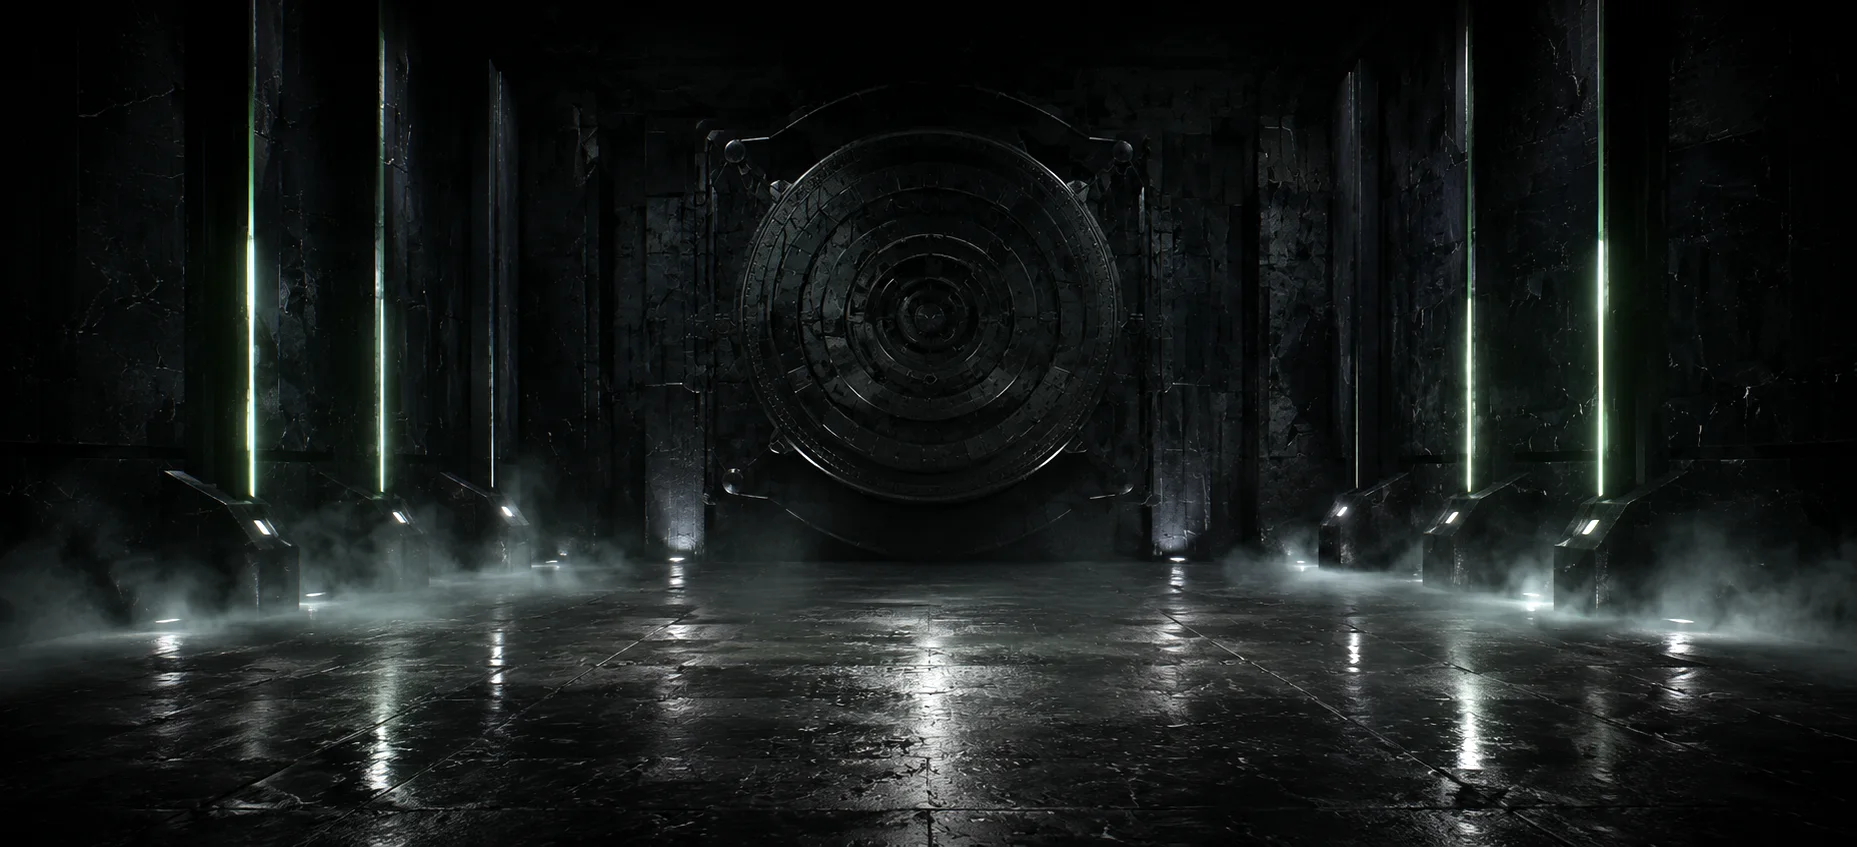
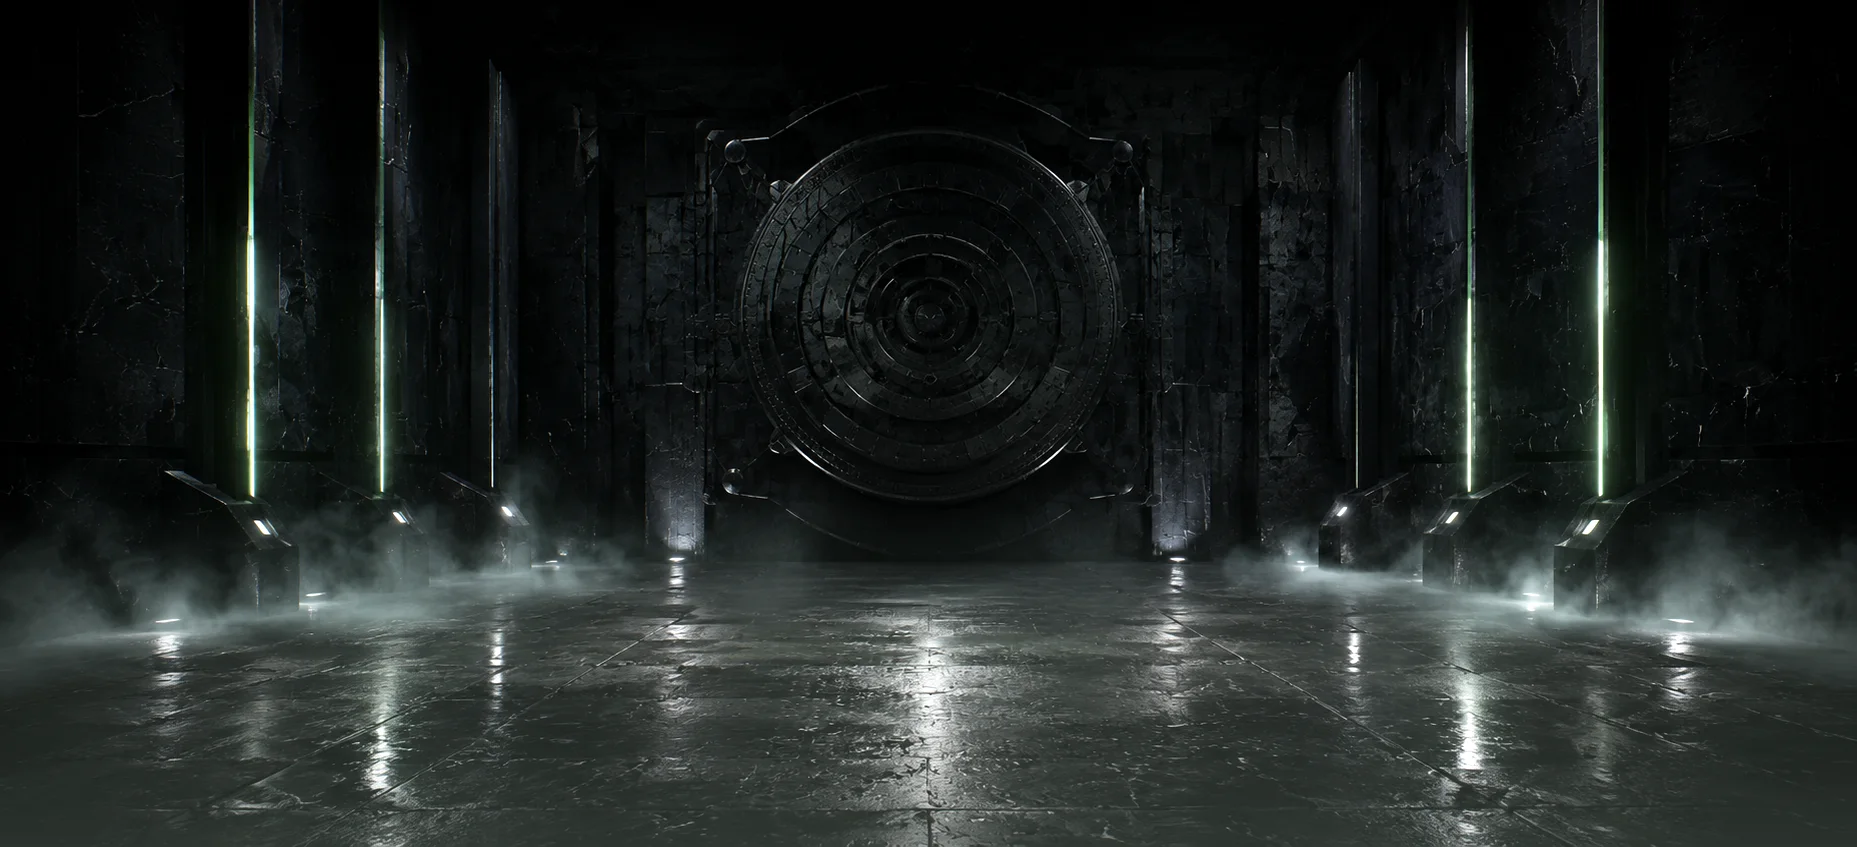
Make the render itself the environment: camera-locked backplate
The chamber render now fills the frame in full — wall, mist and its own
wet-stone floor — instead of being cropped to a wall slab. It is placed as a
backplate in camera space each frame with cover-fit sizing, so it always
covers at any aspect without stretch or letterbox, and its measured floor
line is pinned to the scene's true horizon so world objects composite onto
the painted floor and stay aligned as the camera pitches.

Removes the 3D floor slab entirely (nothing can cut the plate) and grounds
the platforms with radial contact occlusion instead. Bake adds a graduated
shadow lift so the render's foreground keeps detail under the platforms.

Changed region(s): [[0.0, 0.7674, 1.0, 1.0]]

diff --git a/src/scene/Stage.tsx b/src/scene/Stage.tsx
@@ -1,133 +1,110 @@
 import { useMemo, useRef } from 'react';
-import { useFrame } from '@react-three/fiber';
-import { MeshReflectorMaterial, useTexture } from '@react-three/drei';
+import { useFrame, useThree } from '@react-three/fiber';
+import { useTexture } from '@react-three/drei';
 import {
   AdditiveBlending,
   BufferGeometry,
   ClampToEdgeWrapping,
   Float32BufferAttribute,
+  MathUtils,
+  Mesh,
   MirroredRepeatWrapping,
+  PerspectiveCamera,
   ShaderMaterial,
   SRGBColorSpace,
+  Vector3,
 } from 'three';
-import { DUST_VERT, DUST_FRAG, PLANE_VERT, CONTACT_FRAG } from './shaders';
-import { useStore } from '../state/store';
-import { DEBUG_FLAGS } from '../debugFlags';
+import { DUST_VERT, DUST_FRAG } from './shaders';
 
 const CHAMBER_URL = `${import.meta.env.BASE_URL}env/chamber.webp`;
 useTexture.preload(CHAMBER_URL);
 
-/** Plate geometry, derived from one measurement. */
 const CHAMBER_ASPECT = 1857 / 847;
-/** World width of one frame of the plate. */
-const FRAME_W = 20;
-const FRAME_H = FRAME_W / CHAMBER_ASPECT;
 /**
  * Where the chamber's back wall meets its floor, as a fraction down the
- * image (measured from the luminance ramp). Aligning this line to world y=0
- * makes the plate meet the real floor at an architectural corner — the
- * junction is geometry, not a blend, so there is nothing left to seam.
+ * image (measured from its luminance ramp). The backplate anchors this line
+ * to the scene's true horizon, so the painted floor and the 3D ground plane
+ * share one vanishing line — the platforms sit on the render's own floor.
  */
 const FLOOR_LINE = 0.6;
-const PLATE_Y = FRAME_H * (FLOOR_LINE - 0.5);
-const PLATE_Z = -8.5;
+/** Camera-space distance of the backplate. Inside the far plane (60). */
+const PLATE_DIST = 34;
+/** Oversize so horizon anchoring never exposes an edge. */
+const PLATE_OVERSCAN = 1.08;
 
 /**
- * The chamber: one baked plate for the back wall, the real reflective slab
- * for every bit of ground the visitor actually stands near. The plate's own
- * light strips streak down into the reflector, so the near floor continues
- * the far floor by reflection rather than by patching.
+ * The chamber is the render itself: a camera-locked backplate that always
+ * covers the frame (never cropped, never letterboxed), with its floor line
+ * pinned to the 3D horizon so world-space objects composite onto its floor.
+ * There is no 3D floor slab — nothing can cut the plate.
  */
 export function Stage() {
-  const tier = useStore((s) => s.tier);
-
   return (
     <>
-      <Floor tier={tier} />
-      <ContactShadow />
-      <Backdrop />
+      <Backplate />
       <Dust />
     </>
   );
 }
 
-/** Occlusion pooling in the wall/floor corner — sells it as one room. */
-function ContactShadow() {
-  const uniforms = useMemo(() => ({ uStrength: { value: 0.9 } }), []);
-  const depth = 5;
-  return (
-    <mesh rotation-x={-Math.PI / 2} position={[0, 0.006, PLATE_Z + depth / 2]}>
-      <planeGeometry args={[FRAME_W * 3, depth]} />
-      <shaderMaterial
-        vertexShader={PLANE_VERT}
-        fragmentShader={CONTACT_FRAG}
-        uniforms={uniforms}
-        transparent
-        depthWrite={false}
-      />
-    </mesh>
-  );
-}
-
-function Floor({ tier }: { tier: 'high' | 'mid' | 'low' }) {
-  // The reflector renders the whole scene into an offscreen FBO each frame —
-  // reserved for the high tier, at a resolution the blur makes equivalent.
-  // Known cost: drei's internal render targets are not disposed if the
-  // reflector unmounts on a tier downgrade (~8MB GPU, at most once per
-  // session) — accepted over reaching into drei internals.
-  if (tier !== 'high' || DEBUG_FLAGS.noReflect) {
-    return (
-      <mesh rotation-x={-Math.PI / 2} position-y={0}>
-        <planeGeometry args={[60, 60]} />
-        <meshStandardMaterial color="#101312" roughness={0.6} metalness={0.6} />
-      </mesh>
-    );
-  }
-  return (
-    <mesh rotation-x={-Math.PI / 2} position-y={0}>
-      <planeGeometry args={[60, 60]} />
-      {/* Wet stone: sharp enough to carry the plate's light strips as
-          streaks, so the near ground reads as the same floor. */}
-      <MeshReflectorMaterial
-        resolution={512}
-        blur={[160, 55]}
-        mixBlur={0.8}
-        mixStrength={3.3}
-        depthScale={0.6}
-        minDepthThreshold={0.3}
-        maxDepthThreshold={1.2}
-        roughness={0.55}
-        color="#1b201d"
-        metalness={0.5}
-        mirror={0.8}
-      />
-    </mesh>
-  );
-}
-
-function Backdrop() {
-  // Baked lighting, so an unlit material; scene fog recesses it and the
-  // reflector floor mirrors it.
+function Backplate() {
   const chamber = useTexture(CHAMBER_URL);
   chamber.colorSpace = SRGBColorSpace;
-  // Sideways: mirrored repeat, so the wall continues past the view edge on
-  // any aspect ratio with seamless joins and no stretch.
-  // Vertically: clamp — above the frame the plate's dark ceiling row extends
-  // upward (no mirrored door reappearing), below it the floor rows extend
-  // down where our slab occludes them anyway.
+  // Cover-fit crops rather than stretches; mirrored sideways so an extreme
+  // aspect extends the chamber instead of exposing an edge, clamped
+  // vertically so the ceiling/floor rows carry on.
   chamber.wrapS = MirroredRepeatWrapping;
   chamber.wrapT = ClampToEdgeWrapping;
-  chamber.repeat.set(3, 3);
-  chamber.offset.set(-1, -1);
   chamber.needsUpdate = true;
 
+  const mesh = useRef<Mesh>(null!);
+  const camera = useThree((s) => s.camera) as PerspectiveCamera;
+  const dir = useMemo(() => new Vector3(), []);
+  const offset = useMemo(() => new Vector3(), []);
+
+  // Placed in camera space every frame (rather than parented — R3F's default
+  // camera is not in the scene graph, so its children never render). The
+  // plate is a backplate, not scenery: it holds the frame wherever the dolly
+  // goes.
+  useFrame(({ size }) => {
+    const fovHalf = MathUtils.degToRad(camera.fov) / 2;
+    const viewH = 2 * PLATE_DIST * Math.tan(fovHalf);
+    const viewW = viewH * (size.width / Math.max(size.height, 1));
+
+    // Cover: fill the frame, preserve the render's aspect, crop the excess.
+    let w: number;
+    let h: number;
+    if (viewW / viewH > CHAMBER_ASPECT) {
+      w = viewW;
+      h = viewW / CHAMBER_ASPECT;
+    } else {
+      h = viewH;
+      w = viewH * CHAMBER_ASPECT;
+    }
+    w *= PLATE_OVERSCAN;
+    h *= PLATE_OVERSCAN;
+    mesh.current.scale.set(w, h, 1);
+
+    // Pin the render's floor line to the scene's true horizon. Everything
+    // standing on y=0 then meets the painted floor at the same vanishing
+    // line, and it tracks automatically as the camera pitches.
+    camera.getWorldDirection(dir);
+    const pitchDown = Math.asin(MathUtils.clamp(-dir.y, -1, 1));
+    const horizonY = Math.tan(pitchDown) * PLATE_DIST;
+    const y = horizonY - h * (0.5 - FLOOR_LINE);
+    // Never let the anchor pull an edge into frame.
+    const limit = (h - viewH) / 2;
+
+    mesh.current.quaternion.copy(camera.quaternion);
+    offset.set(0, MathUtils.clamp(y, -limit, limit), -PLATE_DIST).applyQuaternion(camera.quaternion);
+    mesh.current.position.copy(camera.position).add(offset);
+  });
+
   return (
-    // 3x the frame in each axis; the middle tile carries the original
-    // mapping, so the vault door stays centered behind the protocol core
-    // and FLOOR_LINE lands exactly on the real floor.
-    <mesh position={[0, PLATE_Y, PLATE_Z]}>
-      <planeGeometry args={[FRAME_W * 3, FRAME_H * 3]} />
-      <meshBasicMaterial map={chamber} fog color="#e8ece8" toneMapped />
+    <mesh ref={mesh} frustumCulled={false} renderOrder={-1000}>
+      <planeGeometry args={[1, 1]} />
+      {/* Unlit and unfogged: the render carries its own light and depth. */}
+      <meshBasicMaterial map={chamber} fog={false} depthWrite={false} depthTest={false} toneMapped />
     </mesh>
   );
 }

diff --git a/src/scene/Pedestal.tsx b/src/scene/Pedestal.tsx
@@ -2,7 +2,7 @@ import { useMemo, useRef } from 'react';
 import { useFrame } from '@react-three/fiber';
 import { useGLTF } from '@react-three/drei';
 import { AdditiveBlending, Mesh, MeshStandardMaterial, ShaderMaterial } from 'three';
-import { PLANE_VERT, RING_FRAG } from './shaders';
+import { PLANE_VERT, RING_FRAG, CONTACT_FRAG } from './shaders';
 import { lightProxy, fxProxy } from '../motion/proxies';
 import { CHAR_X } from '../config/cameraPoses';
 
@@ -46,6 +46,8 @@ export function Pedestal({ side }: { side: 'left' | 'right' }) {
     []
   );
 
+  const shadowUniforms = useMemo(() => ({ uStrength: { value: 0.72 } }), []);
+
   useFrame(({ clock }) => {
     const u = material.current.uniforms;
     u.uTime.value = clock.elapsedTime;
@@ -61,6 +63,19 @@ export function Pedestal({ side }: { side: 'left' | 'right' }) {
 
   return (
     <group position={[x, 0, 0]}>
+      {/* Occlusion pooling under the platform — without it the composite
+          reads as a sticker on the backplate rather than a thing standing
+          on its floor. Drawn first so the halo glows over it. */}
+      <mesh rotation-x={-Math.PI / 2} position-y={0.004} renderOrder={-2}>
+        <planeGeometry args={[4.2, 4.2]} />
+        <shaderMaterial
+          vertexShader={PLANE_VERT}
+          fragmentShader={CONTACT_FRAG}
+          uniforms={shadowUniforms}
+          transparent
+          depthWrite={false}
+        />
+      </mesh>
       <primitive object={platform} />
       {/* State-glow halo on the floor, just outside the platform edge. */}
       <mesh rotation-x={-Math.PI / 2} position-y={0.02}>

diff --git a/src/scene/shaders.ts b/src/scene/shaders.ts
@@ -33,17 +33,17 @@ export const RING_FRAG = /* glsl */ `
 `;
 
 /**
- * Wall-base contact shadow. Every real wall/floor corner has ambient
- * occlusion pooling in it; without one the junction reads as two pasted
- * layers. v=1 is the far edge (at the wall).
+ * Soft radial contact shadow — grounds a platform onto the backplate's
+ * painted floor. Without it, objects composited over a matte painting read
+ * as stickers.
  */
 export const CONTACT_FRAG = /* glsl */ `
   varying vec2 vUv;
   uniform float uStrength;
   void main() {
-    float a = pow(clamp(vUv.y, 0.0, 1.0), 2.2) * uStrength;
-    // Fade out at the left/right extremes so the strip never shows an edge.
-    a *= smoothstep(0.0, 0.06, vUv.x) * (1.0 - smoothstep(0.94, 1.0, vUv.x));
+    float d = length(vUv - 0.5) * 2.0;
+    float a = (1.0 - smoothstep(0.15, 1.0, d)) * uStrength;
+    if (a < 0.004) discard;
     gl_FragColor = vec4(0.0, 0.0, 0.0, a);
   }
 `;

diff --git a/src/scene/Experience.tsx b/src/scene/Experience.tsx
@@ -60,8 +60,12 @@ export function Experience() {
       }}
       dpr={TIER_DPR[tier]}
       camera={{ fov: BOOT_POSE.fov, near: 0.1, far: 60, position: BOOT_POSE.position }}
-      onCreated={({ raycaster, gl, scene }) => {
-        if (import.meta.env.DEV) (window as unknown as { __scene?: unknown }).__scene = scene;
+      onCreated={({ raycaster, gl, scene, camera }) => {
+        if (import.meta.env.DEV) {
+          const w = window as unknown as { __scene?: unknown; __camera?: unknown };
+          w.__scene = scene;
+          w.__camera = camera;
+        }
         // Pointer events only ever test layer-1 hitboxes — the 260k-triangle
         // character meshes never enter an intersection test.
         raycaster.layers.set(1);